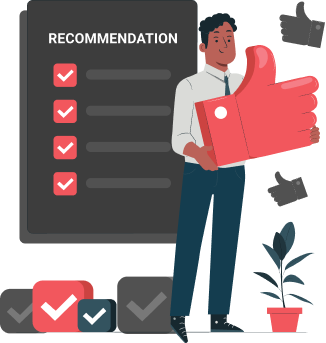
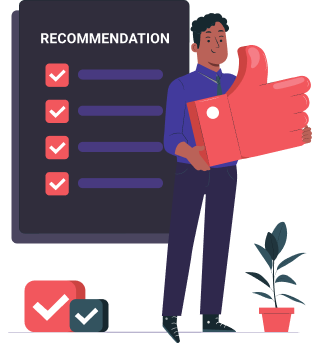
Changed color contrast

diff --git a/src/components/CSS/topNav.css b/src/components/CSS/topNav.css
@@ -1,36 +1,52 @@
 @import url('https://fonts.googleapis.com/css2?family=Ubuntu:wght@400;500;700&display=swap');
 
 #topNav{
-    align-items: center;
-    background-color: #1d1d1d;
-    border-bottom: 1px solid #4E4E4E;
+    align-items: flex-end;
     display: flex;
     justify-content: center;
     width: calc(100vw - 85px);
-    height: 58px;
+    height: 45px;
 }
 
 #topNavSearch{
     align-items: center;
-    border-bottom: 2px solid #4E4E4E;
+    border-bottom: 2px solid #5d4f99;
     display: flex;
     padding-right: 16px;
     margin-bottom: -1px;
+    transition: all 0.28s ease-in-out;
+}
+
+#topNavSearch:hover{
+    border-bottom: 2px solid #7360c9;
+}
+
+select{
+    background-color: #252232;
+    border-radius: 4px;
+    border: none;
+    cursor: pointer;
+    color: #a591ff;
+    padding-bottom: 2px;
+    text-align: center;
+    outline: none;
 }
 
 #topNavSearch input{
     color: white;
     border: none;
-    background-color: #1d1d1d;
+    background-color: rgba(255, 255, 255, 0);
     font-family: 'Ubuntu', sans-serif;
     font-weight: 500;
     letter-spacing: 0.5px;
-    padding: 5px 15px;
-    width: 400px;
+    padding: 0 28px 4px 10px;
+    width: 360px;
+    text-align: center;
     outline: none;
 }
 
 #topNavSearch input::placeholder {
+    color: #756f8e;
     font-family: 'Ubuntu', sans-serif;
     font-weight: 500;
     letter-spacing: 0.5px;
@@ -38,7 +54,16 @@
 }
 
 #topNavSearchBtn{
-    width: 20px;
-    padding-bottom: 3px;
     cursor: pointer;
+    width: 20px;
+    padding-bottom: 4px;
+    transition: all 0.2s ease-in-out;
+}
+
+#topNavSearchBtn:hover{
+    transform: translateY(-2px);
+}
+
+#topNavSearchBtn:active{
+    transform: translateY(0);
 }

diff --git a/src/components/CSS/about.css b/src/components/CSS/about.css
@@ -20,7 +20,7 @@
 }
 
 #aboutOptions{
-    column-gap: 25px;
+    column-gap: 20px;
     display: flex;
     justify-content: flex-end;
     margin-right: 10%;
@@ -31,8 +31,8 @@
 .about_options{
     align-items: center;
     border-radius: 8px;
-    column-gap: 8px;
-    color: #BCBCBC;
+    column-gap: 7px;
+    color: #8778cd;
     cursor: pointer;
     display: flex;
     font-weight: bold;
@@ -43,7 +43,7 @@
 }
 
 .about_options:hover{
-    background-color: rgba(255, 255, 255, 0.06);
+    background-color: rgba(255, 255, 255, 0.07);
     transform: scale(1.07);
 }
 
@@ -96,7 +96,7 @@
 
 ::-webkit-scrollbar-thumb {
     border-radius: 4px;
-    background: #555;
+    background: rgba(255, 255, 255, 0.1);
 }
 
 .aboutContent li{
@@ -104,7 +104,7 @@
     font-size: 17px;
     line-height: 25px;
     letter-spacing: 0.5px;
-    margin-bottom: 21px;
+    margin-bottom: 20px;
 }
 
 .aboutContent li span{

diff --git a/src/components/CSS/recommend.css b/src/components/CSS/recommend.css
@@ -18,8 +18,8 @@
 }
 
 .books_box{
-    background-color: #363636;
-    box-shadow: 0 0 12px #E86571;
+    background-color: rgba(255, 255, 255, 0.05);;
+    box-shadow: 0 0 8px #E86571;
     border-radius: 12px;
     font-weight: 500;
     font-size: 1.3em;
@@ -32,13 +32,13 @@
 
 .books_box:hover{
     transform: scale(1.003);
-    box-shadow: 0 0 14px #E86571;
+    box-shadow: 0 0 12px #E86571;
 }
 
 #book_recommend_input{
     align-items: center;
     border-radius: 8px;
-    background-color: rgba(217, 217, 217, 0.1);
+    background-color: rgba(255, 255, 255, 0.06);
     display: flex;
     padding: 7px 18px;
     margin: 18px 5px;
@@ -89,7 +89,7 @@
 }
 
 #book_recommend button:disabled{
-    background-color: rgba(217, 217, 217, 0.1);
+    background-color: rgb(255, 255, 255, 0.1);
     color: rgb(176, 176, 176);
     box-shadow: none;
     cursor: default;

diff --git a/src/components/TopNav.js b/src/components/TopNav.js
@@ -1,12 +1,22 @@
-import React from "react";
+import React, { useState } from "react";
 import "./CSS/topNav.css";
 import search from "./images/SVGs/search.svg";
 
 function TopNav() {
+  const [option, setOption] = useState("Book");
   return (
     <div id="topNav">
       <div id="topNavSearch">
-        <input type="text" placeholder="Enter book name to search" />
+        <select
+          value={option}
+          onChange={(event) => setOption(event.target.value)}
+        >
+          <option value="book">Book</option>
+          <option value="publisher">Publisher</option>
+          <option value="city">City</option>
+          <option value="pincode">Pincode</option>
+        </select>
+        <input type="text" placeholder={`Enter ${option} to search`} />
         <img id="topNavSearchBtn" src={search} alt="search" />
       </div>
     </div>

diff --git a/src/components/CSS/seller.css b/src/components/CSS/seller.css
@@ -1,14 +1,14 @@
 #sellerInput{
-    background-color: #363636;
+    background-color: rgba(255, 255, 255, 0.05);;
     box-shadow: 0 0 12px #E86571;
     border-radius: 12px;
     font-weight: 500;
     font-size: 1.2em;
     letter-spacing: 0.4px;
     line-height: 24px;
-    padding: 25px 30px;
+    padding: 25px 35px;
     margin-top: 40px;
-    width: 400px;
+    width: 420px;
     transition: all 0.25s ease-in-out;
 }
 
@@ -20,7 +20,7 @@
 #sellerPhoneInput{
     align-items: center;
     border-radius: 8px;
-    background-color: rgba(217, 217, 217, 0.1);
+    background-color: rgba(255, 255, 255, 0.08);
     display: flex;
     padding: 6px 0 8px 12px;
     margin-top: 25px;

diff --git a/src/components/CSS/home.css b/src/components/CSS/home.css
@@ -13,16 +13,16 @@
 }
 
 #homeDetailp{
-    background-color: #363636;
+    background-color: rgba(255, 255, 255, 0.06);
     box-shadow: 0 0 12px #E86571;
     border-radius: 12px;
     font-weight: 500;
     font-size: 1.1em;
     letter-spacing: 0.4px;
     line-height: 24px;
-    padding: 25px 30px;
+    padding: 25px 35px;
     margin-top: 40px;
-    width: 400px;
+    width: 420px;
     transition: all 0.25s ease-in-out;
 }
 

diff --git a/src/components/Recommend.js b/src/components/Recommend.js
@@ -17,7 +17,7 @@ function Recommend() {
               type="text"
               value={bookInput}
               onChange={(e) => setBookInput(e.target.value)}
-              placeholder="Enter at least 2 category or book names separated by comma(,)"
+              placeholder="Enter any category or book_name or author"
             />
           </div>
           <button disabled={bookInput.length === 0}>Recommend Books</button>

diff --git a/src/App.css b/src/App.css
@@ -7,7 +7,7 @@
 }
 
 body{
-  background-color: #2C2C2C;
+  background-color: #252232;
   color: white;
   font-family: 'Ubuntu', sans-serif;
 
@@ -19,7 +19,7 @@ body{
 
 section{
   width: calc(100vw - 80px);
-  height: calc(100vh - 60px);
+  height: calc(100vh - 45px);
   padding: 20px;
 }
 

diff --git a/src/components/CSS/sideNav.css b/src/components/CSS/sideNav.css
@@ -1,8 +1,7 @@
 
 #sideNav{
     align-items: center;
-    background-color: #1D1D1D;
-    border-right: 1px solid #4E4E4E;
+    background-color: rgba(255, 255, 255, 0.06);
     display: flex;
     flex-direction: column;
     justify-content: space-between;
